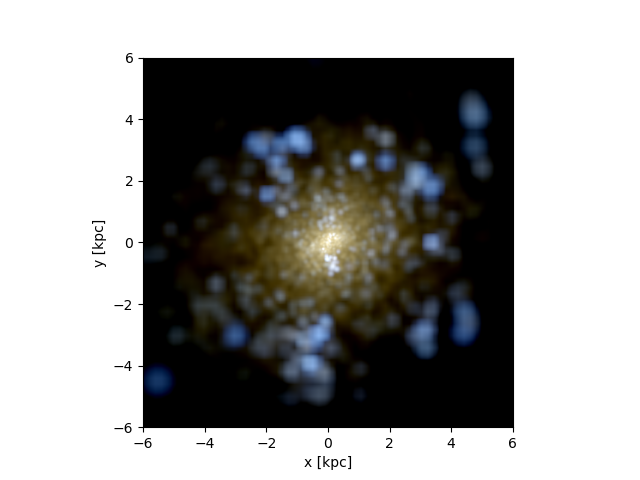
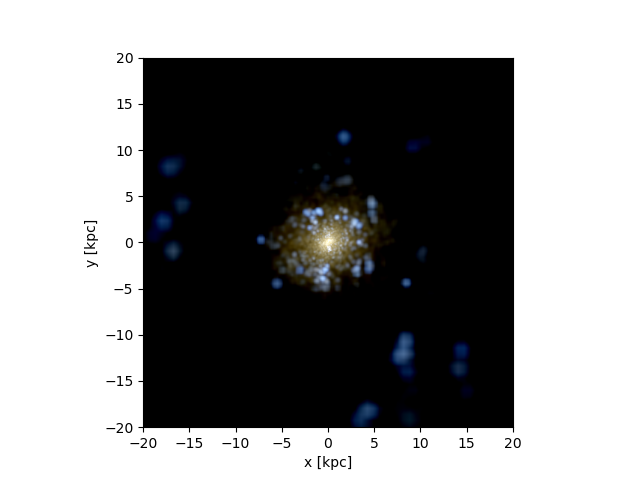
axis updated

diff --git a/r310/galaxy310_stars.py b/r310/galaxy310_stars.py
@@ -10,10 +10,12 @@ s=pynbody.load('/mnt/data0/jillian/gguaman/r310/cosmo25p.768sg1bwK1BHe75.007779'
 s.physical_units()
 
 #centering halo
-pynbody.analysis.angmom.faceon(s)
+#pynbody.analysis.angmom.faceon(s)
+pynbody.analysis.angmom.sideon(s)
 
 #creating image using default bands(i,v,u)
-pynbody.plot.stars.render(s,width='12 kpc')
+pynbody.plot.stars.render(s,width='40 kpc')
 
 #plt.show()
-plt.savefig("galaxy310_stars.png")
+#plt.savefig("galaxy310_stars.png")
+plt.savefig("galaxy310_stars(side).png")

diff --git a/r310/galaxy310_dens.py b/r310/galaxy310_dens.py
@@ -10,10 +10,12 @@ s=pynbody.load('/mnt/data0/jillian/gguaman/r310/cosmo25p.768sg1bwK1BHe75.007779'
 s.physical_units()
 
 #centering halo and aligning disk
-pynbody.analysis.angmom.faceon(s)
+#pynbody.analysis.angmom.faceon(s)
+pynbody.analysis.angmom.sideon(s)
 
 #creating gas density slice
 sph.image(s.g,qty="rho",units="g cm^-3",width=40)
 
 #plt.show()
-plt.savefig("galaxy310_dens.png")
+#plt.savefig("galaxy310_dens.png")
+plt.savefig("galaxy310_dens(side).png")
